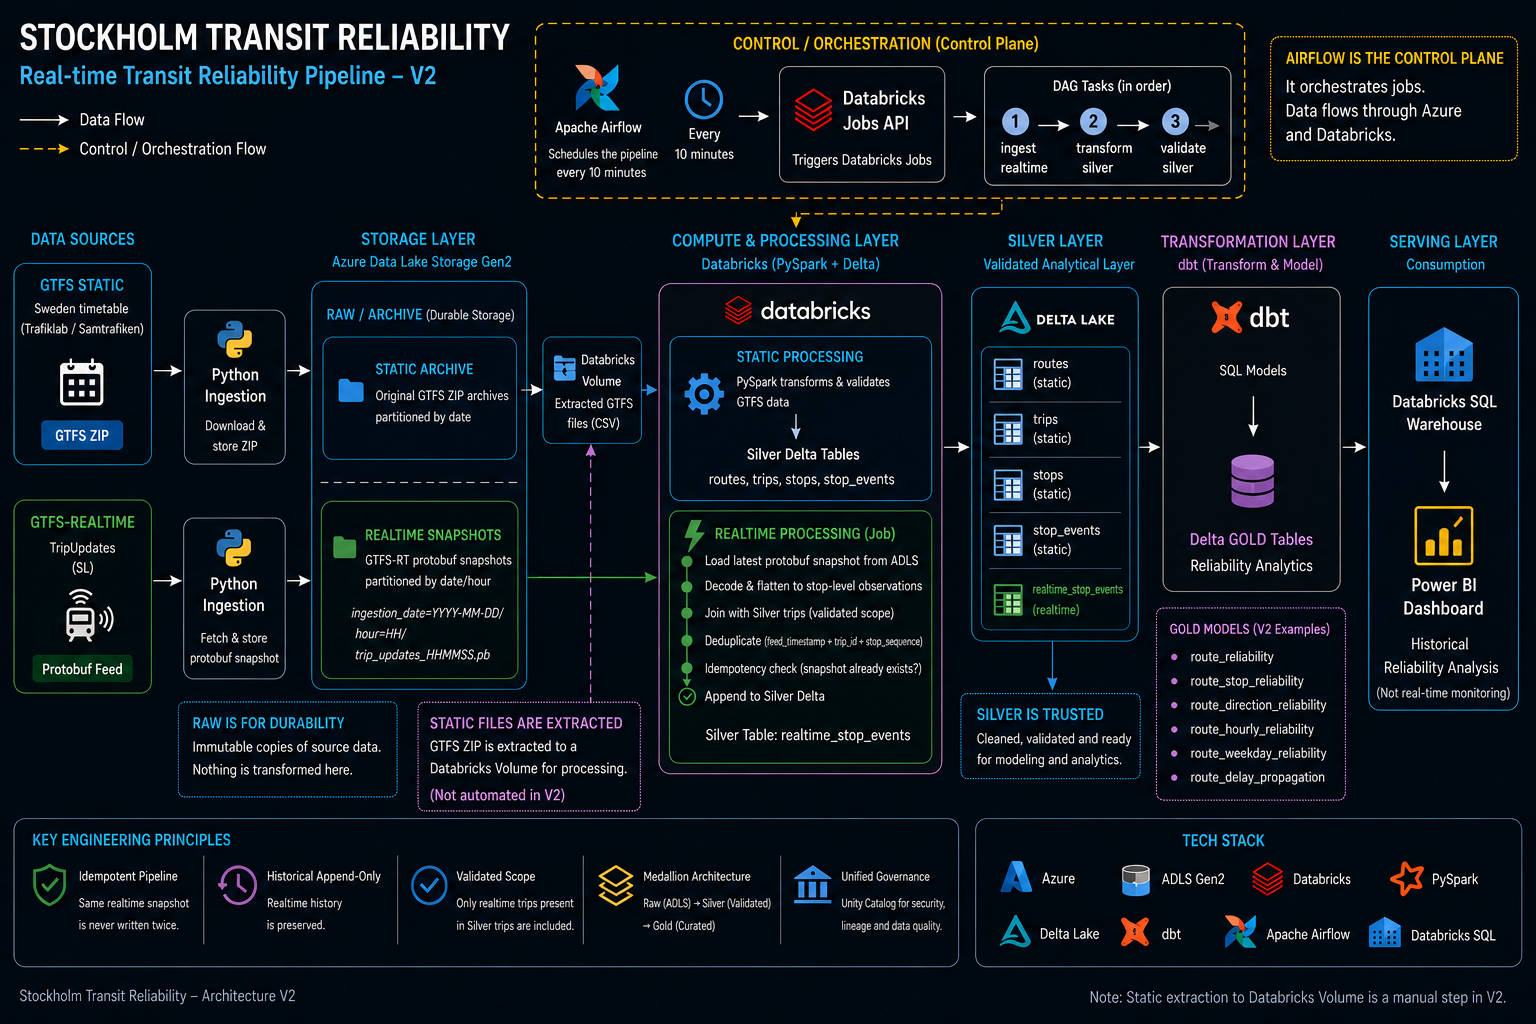
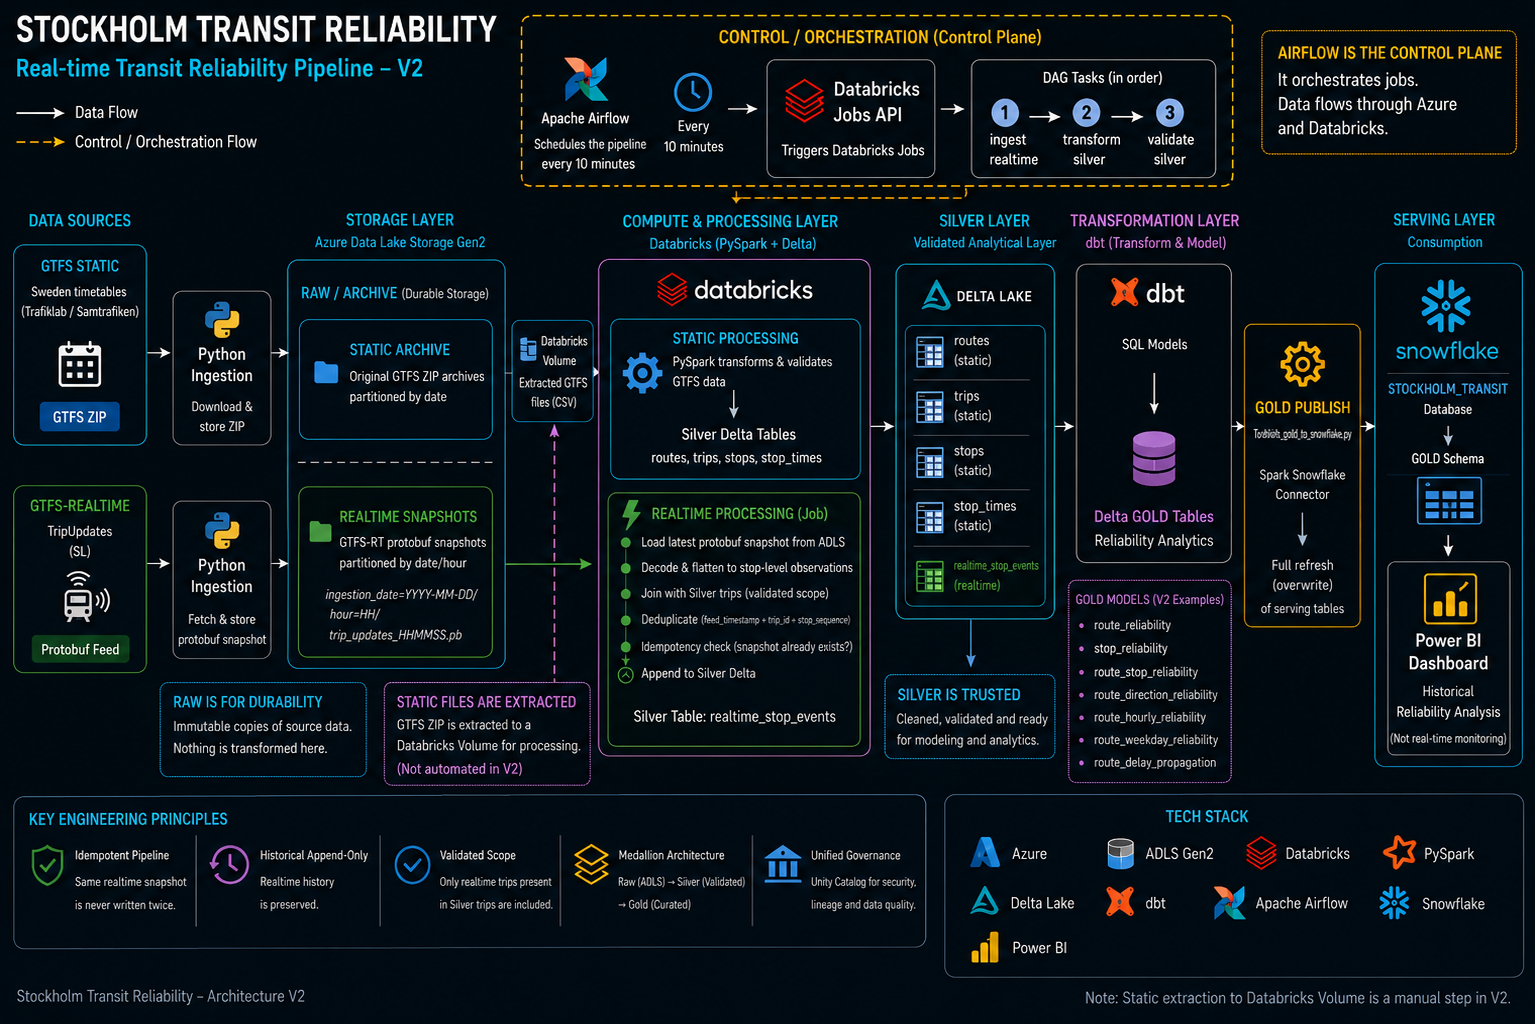
Fix V2 Snowflake serving layer documentation

Changed region(s): [[0.0, 0.0, 1.0, 1.0], [0.0, 0.9375, 0.1837, 1.0]]

diff --git a/README.md b/README.md
@@ -2,7 +2,7 @@
 
 A production-inspired data engineering platform for analyzing the reliability of public transport in Stockholm using static schedules and GTFS-Realtime data.
 
-The project combines **Azure Data Lake Storage, Databricks, PySpark, Delta Lake, dbt, Apache Airflow, Databricks SQL, and Power BI** to build an end-to-end pipeline from raw transit feeds to historical reliability analytics.
+The project combines **Azure Data Lake Storage, Databricks, PySpark, Delta Lake, dbt, Apache Airflow, Snowflake, and Power BI** to build an end-to-end pipeline from raw transit feeds to historical reliability analytics.
 
 > **Current release: V2 — Analytical Depth**
 
@@ -16,6 +16,7 @@ The project combines **Azure Data Lake Storage, Databricks, PySpark, Delta Lake,
 - [Pipeline](#pipeline)
   - [Static Pipeline](#static-pipeline)
   - [Realtime Pipeline](#realtime-pipeline)
+  - [Gold Publishing](#gold-publishing)
 - [Data Model](#data-model)
 - [Orchestration](#orchestration)
 - [Data Quality](#data-quality)
@@ -49,12 +50,13 @@ The platform:
 - preserves historical realtime observations
 - models reliability metrics with dbt
 - orchestrates the realtime pipeline with Apache Airflow
-- serves analytical models through Databricks SQL
+- publishes curated Gold models from Databricks to Snowflake
+- uses Snowflake as the analytical serving layer
 - presents historical reliability analysis in Power BI
 
 **V1** established the working end-to-end platform.
 
-**V2** keeps that architecture and focuses on deeper analysis: **P95 tail risk, route-stop reliability, directional asymmetry, temporal patterns, and delay propagation**.
+**V2** keeps that foundation and focuses on deeper analysis: **P95 tail risk, route-stop reliability, directional asymmetry, temporal patterns, and delay propagation**.
 
 The project is intentionally production-inspired without treating architectural complexity as a goal of its own.
 
@@ -64,7 +66,7 @@ The project is intentionally production-inspired without treating architectural 
 
 ![Stockholm Transit Reliability Architecture](docs/architecture-v2.png)
 
-The system separates four main concerns:
+The system separates five main concerns:
 
 **Raw storage**  
 Azure Data Lake Storage preserves static source files and timestamped GTFS-Realtime snapshots.
@@ -73,12 +75,35 @@ Azure Data Lake Storage preserves static source files and timestamped GTFS-Realt
 Databricks and PySpark convert source data into validated, typed Delta datasets.
 
 **Gold modeling**  
-dbt transforms trusted Silver data into reliability-focused analytical models.
+dbt transforms trusted Silver data into reliability-focused analytical models stored in Databricks.
 
-**Serving and visualization**  
-Databricks SQL serves the Gold layer to Power BI.
+**Analytical serving**  
+A dedicated PySpark publishing job transfers curated Gold tables from Databricks to Snowflake using the Spark Snowflake Connector.
+
+**Visualization**  
+Power BI connects to the Snowflake serving layer for historical reliability analysis.
 
 Apache Airflow operates separately as the **control plane**, coordinating when realtime jobs execute and in what order.
+
+The V2 analytical path is therefore:
+
+```text
+ADLS Raw
+    ↓
+Databricks / PySpark
+    ↓
+Delta Silver
+    ↓
+dbt Gold
+    ↓
+Spark Snowflake Connector
+    ↓
+Snowflake
+    ↓
+Power BI
+```
+
+Databricks SQL remains useful for development, validation, and ad hoc analytical queries, but Snowflake is the serving layer consumed by the V2 Power BI dashboard.
 
 ---
 
@@ -185,6 +210,43 @@ start_date
 
 Realtime trips must exist in the validated static `trips` table before they are accepted into the analytical pipeline.
 
+### Gold Publishing
+
+dbt builds the analytical Gold models in Databricks.
+
+A dedicated publishing job then reads selected Gold Delta tables and writes them to the `GOLD` schema in Snowflake through the **Spark Snowflake Connector**.
+
+The V2 publishing flow is:
+
+```text
+Databricks Gold Delta tables
+        ↓
+publish_gold_to_snowflake.py
+        ↓
+Spark Snowflake Connector
+        ↓
+Snowflake
+STOCKHOLM_TRANSIT.GOLD
+        ↓
+Power BI
+```
+
+The following analytical tables are published:
+
+```text
+route_reliability
+stop_reliability
+route_stop_reliability
+route_direction_reliability
+route_hourly_reliability
+route_weekday_reliability
+route_delay_propagation
+```
+
+Serving tables are written using **overwrite mode**, making each publish a full refresh of the curated analytical serving layer rather than an incremental append.
+
+Snowflake authentication uses key-pair authentication, with the private key retrieved securely from **Databricks Secrets** rather than stored directly in source code.
+
 ---
 
 ## Data Model
@@ -243,6 +305,10 @@ V2 extends the analytical layer beyond basic averages with:
 - direction-level reliability
 - hourly and weekday analysis
 - delay accumulation and recovery
+
+Gold models are built first in Databricks and remain the transformation source of truth.
+
+The curated subset required by downstream BI is then published to Snowflake, separating analytical model construction from dashboard serving.
 
 ---
 
@@ -356,6 +422,8 @@ This makes it possible to analyze whether a route tends to:
 
 V2 replaces the original Databricks AI/BI dashboard with a Power BI dashboard focused on deeper historical reliability analysis.
 
+Power BI consumes the curated analytical serving tables from **Snowflake**.
+
 The dashboard includes:
 
 - headline reliability KPIs
@@ -373,7 +441,7 @@ Global filters support analysis by:
 
 Route identifiers are kept unique internally even when different transport modes share the same public route number.
 
-The Power BI KPI calculations were cross-checked directly against the Gold `route_reliability` model and matched the SQL results at the V2 validation checkpoint.
+The Power BI KPI calculations were cross-checked against the Gold `route_reliability` model and matched the analytical results at the V2 validation checkpoint.
 
 The dashboard is designed for **historical analysis**, not live operational monitoring.
 
@@ -460,13 +528,15 @@ Cloud cost is treated as an engineering constraint.
 
 Azure Cost Management showed that Databricks compute was the dominant Azure service cost during development.
 
-The SQL warehouse was initially configured as **Small** and was later downsized to **2X-Small** after the larger configuration proved unnecessary for the project's analytical workload.
+The Databricks SQL warehouse was initially configured as **Small** and was later downsized to **2X-Small** after the larger configuration proved unnecessary for the project's development and analytical-query workload.
 
 The smaller warehouse remained sufficient for:
 
 - SQL validation
-- dbt analytical work
-- Power BI consumption
+- development queries
+- analytical inspection of Gold models
+
+Power BI consumption is served separately through Snowflake and therefore should not be attributed to the Databricks SQL Warehouse.
 
 At the V2 checkpoint, cumulative Azure Databricks development spend was approximately **SEK 301**.
 
@@ -484,14 +554,16 @@ The engineering principle is:
 |---|---|
 | **Python** | GTFS ingestion and realtime feed processing |
 | **Azure Data Lake Storage Gen2** | Durable raw/archive storage |
-| **Databricks** | Compute and data platform |
+| **Databricks** | Processing and transformation platform |
 | **Apache Spark / PySpark** | Distributed-style transformation and validation |
-| **Delta Lake** | Trusted Silver and analytical storage |
+| **Delta Lake** | Trusted Silver and Gold analytical storage |
 | **Unity Catalog** | Table organization and governance |
 | **dbt** | Gold-layer analytical modeling and testing |
 | **Apache Airflow** | Realtime workflow orchestration |
 | **Docker** | Reproducible local Airflow environment |
-| **Databricks SQL** | Analytical serving layer |
+| **Databricks SQL** | Development, validation, and ad hoc analytical queries |
+| **Spark Snowflake Connector** | Gold publishing from Databricks to Snowflake |
+| **Snowflake** | Analytical serving layer for downstream BI |
 | **Power BI** | Historical reliability dashboard |
 | **GTFS / GTFS-Realtime** | Transit data standards |
 | **Azure Cost Management** | Cloud-cost visibility |
@@ -540,6 +612,44 @@ dbt handles analytical modeling and reliability definitions.
 
 This separates data engineering logic from analytical business logic and allows V2 to deepen the analytics without redesigning the ingestion pipeline.
 
+### Why Snowflake?
+
+Databricks and Snowflake serve different responsibilities in the V2 architecture.
+
+**Databricks** is the primary processing and transformation environment. PySpark processes the operational data, Delta Lake stores trusted datasets, and dbt builds the analytical Gold models.
+
+**Snowflake** acts as the dedicated analytical serving layer consumed by Power BI.
+
+A publishing job bridges the two platforms:
+
+```text
+Databricks Gold
+      ↓
+PySpark publish job
+      ↓
+Spark Snowflake Connector
+      ↓
+Snowflake GOLD
+      ↓
+Power BI
+```
+
+This separates data-engineering workloads from downstream BI consumption and provides practical experience integrating two commonly used analytical platforms.
+
+As with Spark, this separation is **not required by the scale of the current workload**. A simpler architecture could serve Power BI directly from Databricks.
+
+Snowflake is deliberately included as a learning-driven architectural decision, while still being assigned a clear responsibility rather than added as an unused technology.
+
+### Why Full-Refresh the Snowflake Serving Layer?
+
+The current Gold serving tables are small analytical aggregates rather than large event-level datasets.
+
+For V2, replacing each Snowflake table during publishing is simpler to reason about than implementing incremental synchronization between two platforms.
+
+This keeps Databricks Gold as the analytical source of truth while Snowflake contains a clean serving copy for Power BI.
+
+If the serving datasets become substantially larger or publishing becomes more frequent, incremental loading can be reconsidered.
+
 ### Why Airflow?
 
 The realtime workflow contains multiple dependent stages, repeated execution, ordering requirements, and validation.
@@ -554,7 +664,7 @@ V1 used Databricks AI/BI to prove the first analytical slice.
 
 V2 required a richer analytical product with route filtering, directional comparisons, tail-risk analysis, propagation analysis, and multiple coordinated views.
 
-Power BI became the V2 presentation layer while Databricks SQL remained the serving layer.
+Power BI became the V2 presentation layer, consuming curated analytical tables from Snowflake.
 
 ### Why Not Automate Everything?
 
@@ -619,6 +729,9 @@ stockholm-transit-reliability/
 │   │   ├── validate_silver.py
 │   │   └── validate_timetable_handshake.py
 │   │
+│   ├── publish/
+│   │   └── publish_gold_to_snowflake.py
+│   │
 │   ├── main.py
 │   └── realtime.py
 │
@@ -628,13 +741,15 @@ stockholm-transit-reliability/
 
 Raw and generated datasets are excluded from version control.
 
+Local connectivity/debugging scripts are also kept outside the production project structure where appropriate.
+
 ---
 
 ## Version History
 
 ### V1 — Working Platform ✅
 
-V1 established the complete end-to-end foundation:
+V1 established the initial end-to-end foundation:
 
 ```text
 GTFS / GTFS-RT
@@ -670,12 +785,24 @@ Key additions include:
 - hourly and weekday analysis
 - delay propagation and recovery
 - analytical sample-size guardrails
+- Snowflake analytical serving layer
+- Gold publishing through the Spark Snowflake Connector
 - Power BI dashboard
-- Gold-to-dashboard validation
+- Gold-to-serving-to-dashboard validation
 - cloud-cost inspection and compute right-sizing
 - updated V2 architecture documentation
 
-V2 intentionally improves **what can be learned from the system** rather than expanding infrastructure unnecessarily.
+The V2 analytical serving path is:
+
+```text
+dbt Gold in Databricks
+        ↓
+Snowflake
+        ↓
+Power BI
+```
+
+V2 intentionally improves **what can be learned from the system** while adding infrastructure only where it has a defined responsibility or explicit learning objective.
 
 ---
 
@@ -729,13 +856,17 @@ The objective is not to build the largest possible system, but to make deliberat
 - operational complexity
 - project scope
 
-Some decisions in this project — most notably the use of Spark and Databricks — are intentionally **learning-driven**.
+Some decisions in this project — most notably the use of **Spark, Databricks, and the separate Snowflake serving layer** — are intentionally **learning-driven**.
+
+The project does not claim that its current data volume requires this architecture.
+
+Instead, these technologies are used in real roles within the pipeline so their operational characteristics, integration boundaries, costs, and trade-offs can be explored in practice.
 
 Other technologies are deliberately omitted when they do not solve a current problem.
 
 **V1 established the working platform.**
 
-**V2 deepened the analytics.**
+**V2 deepened the analytics and introduced a dedicated analytical serving layer.**
 
 Future versions will change the architecture only when new requirements justify that change.
 
